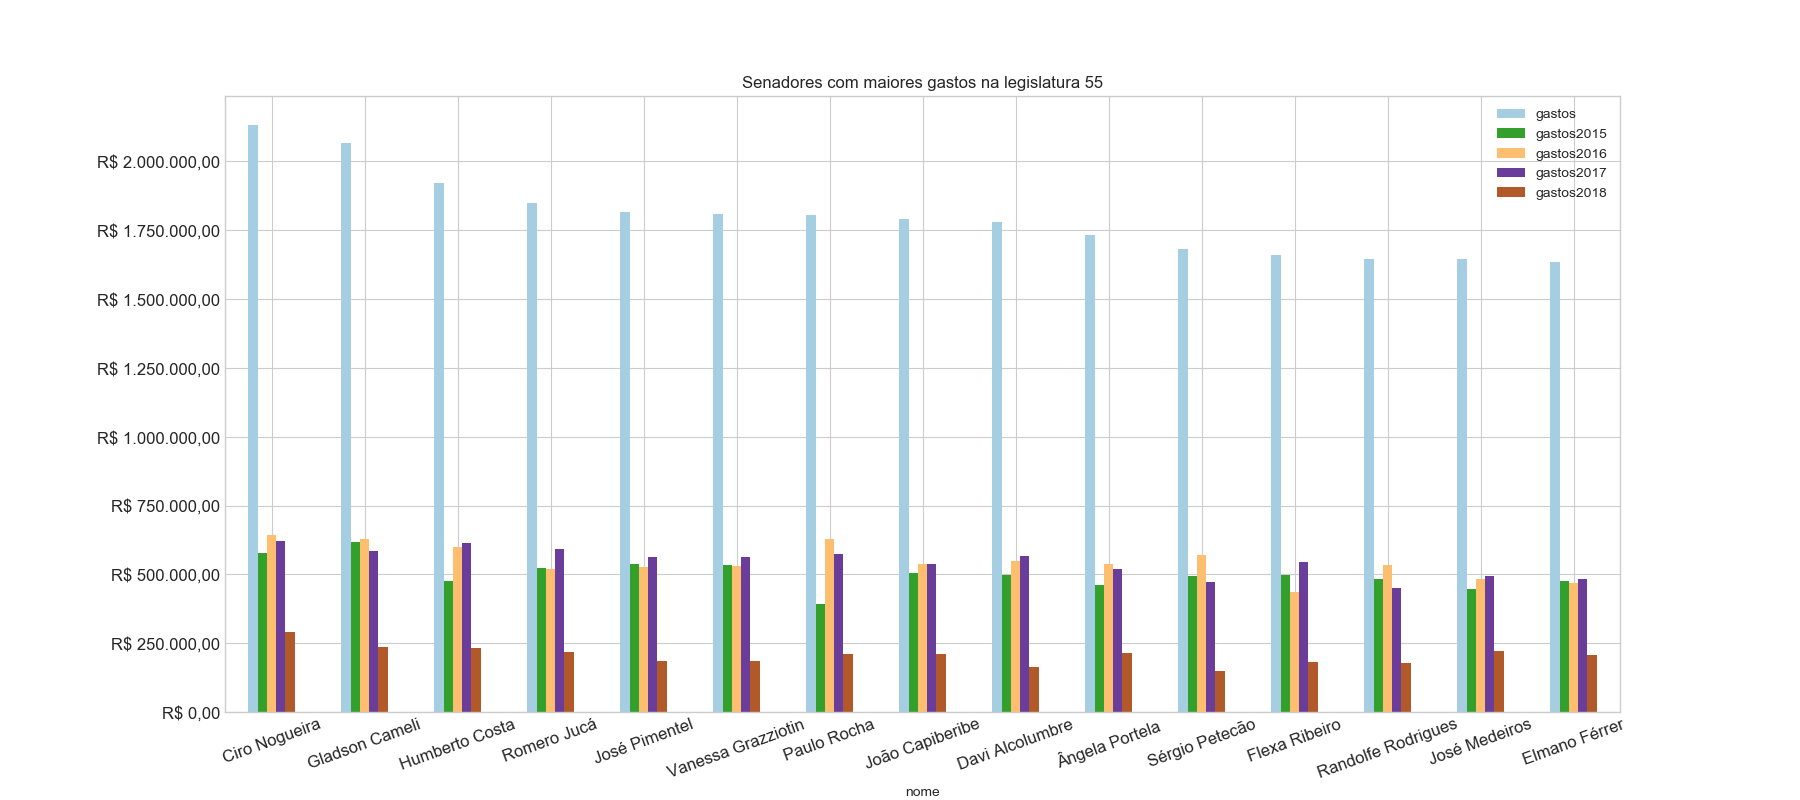
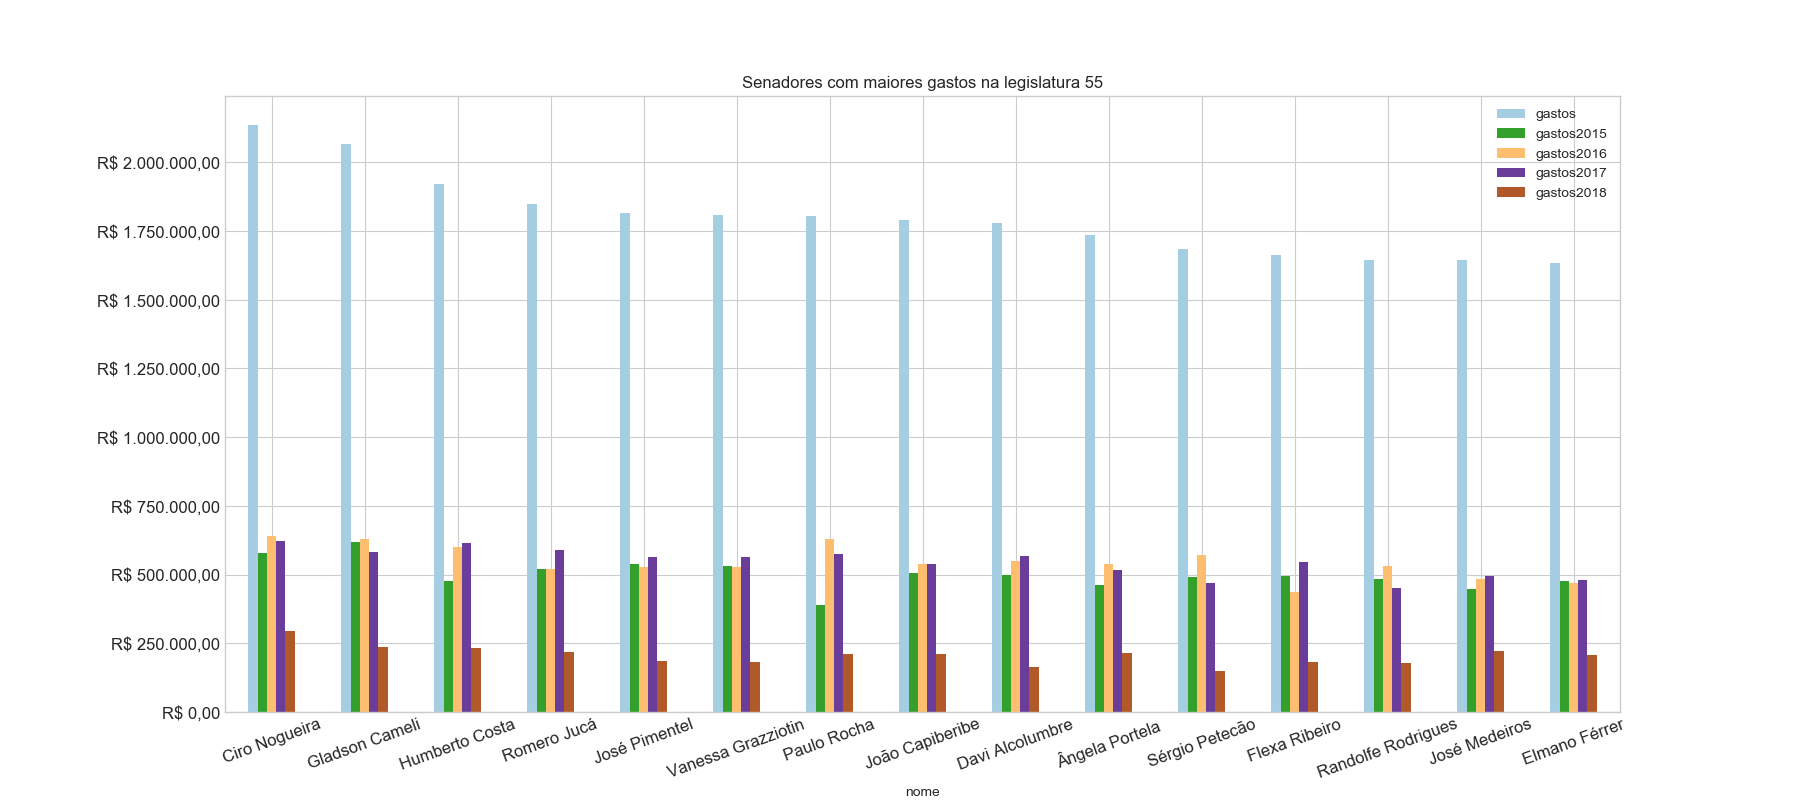
Atualização de dados do Senado

diff --git a/index.html b/index.html
@@ -29,9 +29,9 @@
       <div class="row"><b class="SenadoSubTitle">Informações de despesas de senadores</b><br></div>
       <div class="row"><b class="SenadoSubTitle">Dados coletados em 
 <!--Data-->       
-23/06/2018 às 
+24/06/2018 às 
 <!--Hora-->
-16:13:33      </b><br></div>
+15:23:01      </b><br></div>
       <br>
       <div class="TextoImagem">
         <center>
@@ -236,7 +236,7 @@
               <td>13</td>
               <td align='middle'><a href='http://www6g.senado.leg.br/transparencia/sen/739/?ano=2018' target='_blank'><img src='fotos/senador739.jpg' height='51' width='42'><span class='fototip'>Crédito foto: Cléber Medeiros/Supres</span></a></td>
               <td align='left'>Ciro Nogueira</td>
-              <td align='left' class='gastos' name='739'>R$ 2.131.323,19</td>
+              <td align='left' class='gastos' name='739'>R$ 2.134.559,67</td>
               <td align='left'>Titular</td>
               <td align='middle'>PI</td>
               <td align='left'>PP</td>
@@ -324,7 +324,7 @@
               <td>21</td>
               <td align='middle'><a href='http://www6g.senado.leg.br/transparencia/sen/4767/?ano=2018' target='_blank'><img src='fotos/senador4767.jpg' height='51' width='42'><span class='fototip'>Crédito foto: Jefferson Rudy/Agência Senado</span></a></td>
               <td align='left'>Eduardo Lopes</td>
-              <td align='left' class='gastos' name='4767'>R$ 841.445,18</td>
+              <td align='left' class='gastos' name='4767'>R$ 845.564,69</td>
               <td align='left'>1º Suplente</td>
               <td align='middle'>RJ</td>
               <td align='left'>PRB</td>
